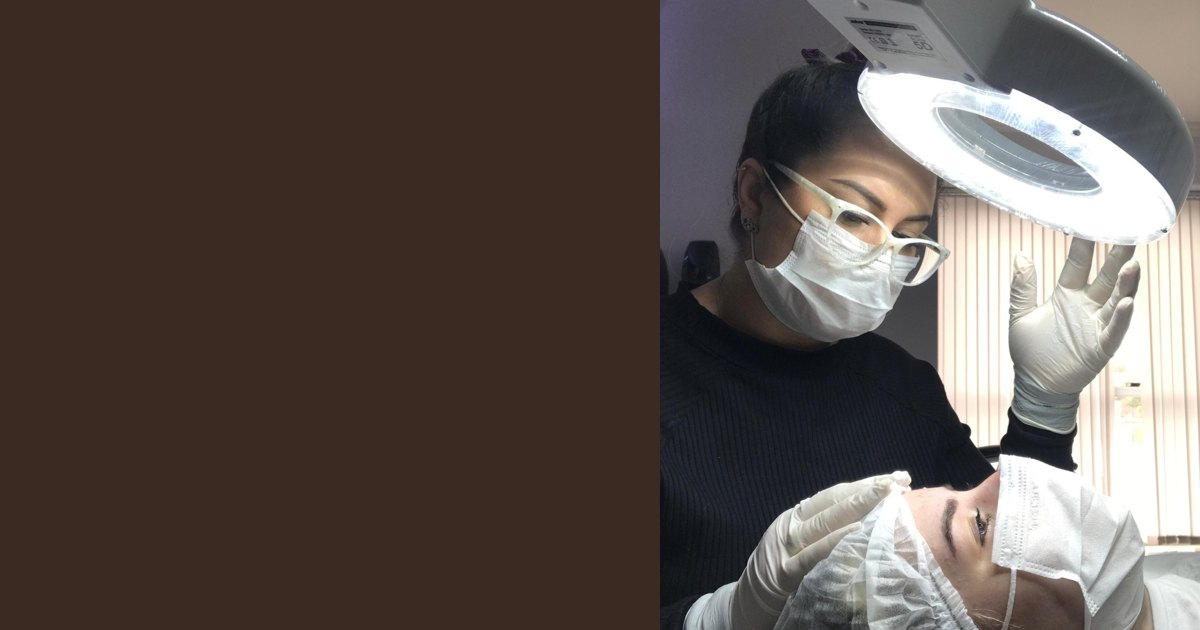
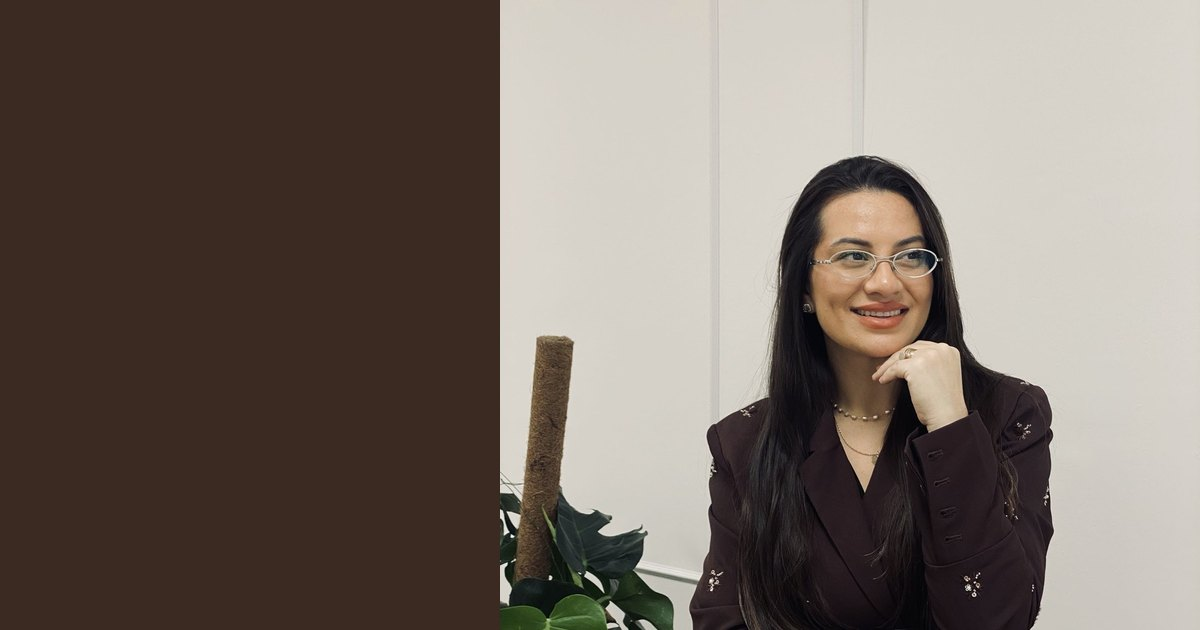
Adres van de kliniek op de site en nieuwe portretten van Angel
Claude-Session: https://claude.ai/code/session_01Sx2hgKZ8ZHtpHQ652AXGcF

diff --git a/scripts/build.js b/scripts/build.js
@@ -14,6 +14,8 @@ const SITE = {
   instagram: 'https://www.instagram.com/anggel_brandao',
   facebook: 'https://www.facebook.com/106613280774555',
   kvk: '42151244',
+  address: { clinic: 'Beauty Clinic Almere', street: 'Zadelmakerstraat 49', zip: '1315 AN', city: 'Almere' },
+  maps: 'https://www.google.com/maps/search/?api=1&query=Zadelmakerstraat+49+1315AN+Almere',
 };
 const wa = (text) => `${SITE.whatsapp}?text=${encodeURIComponent(text)}`;
 const esc = (s) => String(s).replace(/&/g, '&amp;').replace(/</g, '&lt;').replace(/>/g, '&gt;').replace(/"/g, '&quot;');
@@ -32,7 +34,7 @@ const NL = {
   ctaText: 'Hoi Angel! Ik wil graag een gratis consult inplannen voor permanente make-up.',
   ctaTreat: (n) => `Hoi Angel! Ik heb interesse in ${n}. Kan ik een gratis consult inplannen?`,
   band: { h: 'Benieuwd welke techniek bij jou past?', p: 'Plan een gratis consult. Ik kijk naar je huid en je wensen en adviseer eerlijk. Je beslist daarna pas.', btn: 'Boek je gratis consult via WhatsApp', small: `Reactie meestal binnen een paar uur · ${SITE.phoneDisplay}` },
-  footer: { tag: 'Beauty with purpose', about: 'Permanente make-up specialist in Almere Centrum. Natuurlijke wenkbrauwen en lippen, met meer dan 7 jaar ervaring.', studio: 'Studio', studioText: 'Almere Centrum, op loopafstand van het station. Het exacte adres ontvang je bij het bevestigen van je afspraak.', hours: 'Op afspraak, ook in het weekend.', contact: 'Contact', treatments: 'Behandelingen', bottom: `© ${new Date().getFullYear()} ${SITE.name} · KvK ${SITE.kvk}` },
+  footer: { tag: 'Beauty with purpose', about: 'Permanente make-up specialist in Almere Centrum. Natuurlijke wenkbrauwen en lippen, met meer dan 7 jaar ervaring.', studio: 'Studio', studioText: 'Beauty Clinic Almere<br>Zadelmakerstraat 49<br>1315 AN Almere (Centrum)<br><a href="https://www.google.com/maps/search/?api=1&query=Zadelmakerstraat+49+1315AN+Almere" target="_blank" rel="noopener">Route via Google Maps</a>', hours: 'Op afspraak, ook in het weekend.', contact: 'Contact', treatments: 'Behandelingen', bottom: `© ${new Date().getFullYear()} ${SITE.name} · KvK ${SITE.kvk}` },
   faqTitle: 'Veelgestelde vragen',
   wa: 'WhatsApp', ig: 'Instagram @anggel_brandao', onRequest: 'Prijs op aanvraag', more: (n) => `Meer over ${n} →`, view: 'Bekijk →', promoPrice: 'actieprijs',
   treatments: {
@@ -67,13 +69,13 @@ const NL = {
     ['Hoe lang blijft permanente make-up zitten?', 'Wenkbrauwen gemiddeld 1,5 tot 3 jaar, afhankelijk van de techniek, je huidtype en zonblootstelling. Lip blush 2 tot 3 jaar. Het pigment vervaagt geleidelijk en kan daarna opgefrist worden.'],
     ['Doet permanente make-up pijn?', 'Ik werk met een verdovende crème. De meeste klanten omschrijven het als licht krassend of prikkend, goed te doen.'],
     ['Is het consult echt gratis?', 'Ja. In het consult bespreken we je wensen, bekijk ik je huid en wenkbrauwen en adviseer ik de beste techniek en kleur. Je beslist daarna pas of je de behandeling wilt.'],
-    ['Waar zit de studio?', 'In Almere Centrum, op loopafstand van station Almere Centrum. Ik werk op afspraak; het exacte adres ontvang je bij de bevestiging van je afspraak.'],
+    ['Waar zit de studio?', 'In Beauty Clinic Almere, Zadelmakerstraat 49, 1315 AN Almere, in het centrum op loopafstand van station Almere Centrum. Ik werk op afspraak.'],
     ['Werk je hygiënisch en gecertificeerd?', 'Ja. Ik werk uitsluitend met steriele wegwerpnaalden en -materialen, draag handschoenen en volg de hygiënerichtlijnen voor tatoeëren en PMU. Ik ben gecertificeerd in micropigmentatie en heb meer dan 7 jaar ervaring.'],
   ],
   home: {
     title: 'Permanente make-up (PMU) Almere | Nano Brows, Powder Brows & Lip Blush | Angel Brandão', description: 'PMU specialist in Almere Centrum: nanoblading (nano brows), powder brows, combi brows en lip blush met een natuurlijk resultaat. 7+ jaar ervaring, gratis consult, actie €350.',
     eyebrow: 'Permanente make-up (PMU) · Almere Centrum', h1: 'Natuurlijke wenkbrauwen en lippen, elke dag perfect', lead: 'Permanente make-up in Almere: nanoblading (nano brows), powder brows, combi brows en lip blush door Angel Brandão. Meer dan 7 jaar ervaring, een zachte hand en een resultaat dat eruitziet alsof het van jou is.',
-    cta1: 'Boek je gratis consult', cta2: 'Bekijk behandelingen', trust: ['7+ jaar ervaring', 'Gratis consult', 'Steriel & gecertificeerd', 'Bijwerking inbegrepen'], heroAlt: 'Angel Brandão aan het werk tijdens een permanente make-up behandeling in Almere',
+    cta1: 'Boek je gratis consult', cta2: 'Bekijk behandelingen', trust: ['7+ jaar ervaring', 'Gratis consult', 'Steriel & gecertificeerd', 'Bijwerking inbegrepen'], heroAlt: 'Angel Brandão, permanente make-up specialist in Almere',
     promoEyebrow: 'Tijdelijke actie', promoH: 'Wenkbrauwen <s>€599</s> <strong>€350</strong> · Lip blush <s>€499</s> <strong>€249</strong> · Samen <strong>€500</strong>', promoP: 'Geldt voor nano, powder en combi brows. Inclusief ontwerp, kleuradvies en bijwerking na 6 tot 8 weken. Beperkt aantal plekken.', promoBtn: 'Alle prijzen',
     svcEyebrow: 'Behandelingen', svcH: 'Kies de techniek die bij jou past', svcSub: 'Twijfel je? In het gratis consult kijk ik naar je huidtype en je eigen wenkbrauwhaar en adviseer ik eerlijk wat het mooiste en langst houdt.',
     whyEyebrow: 'Waarom Angel Brandão', whyH: 'Natuurlijk is het enige resultaat dat ik maak', whyAlt: 'Close-up van natuurlijk ogende permanente make-up wenkbrauwen',
@@ -81,7 +83,7 @@ const NL = {
     galEyebrow: 'Voor & na', galH: 'Echte klanten, echte resultaten', gal: [['before-after-3.jpg', 'Nano brows, direct na de behandeling'], ['work-4.jpg', 'Nano brows, na 4 weken']], galMore: 'Meer resultaten',
     stepsEyebrow: 'Zo werkt het', stepsH: 'Van consult tot perfecte wenkbrauwen',
     steps: [['Gratis consult', 'Via WhatsApp of in de studio. We bespreken je wensen, je huid en de beste techniek.'], ['Ontwerp & kleur', 'Ik meet en teken de vorm en kies samen met jou de pigmentkleur die bij je past.'], ['Behandeling', 'Met verdovende crème, in ca. 1,5 tot 2 uur. Je krijgt duidelijke nazorginstructies mee.'], ['Bijwerking', 'Na 6 tot 8 weken werken we het resultaat bij. Inbegrepen in de prijs.']],
-    aboutEyebrow: 'Over Angel', aboutH: 'Hoi, ik ben Angel', aboutP1: 'Braziliaanse make-up artist en permanente make-up specialist, sinds 2026 gevestigd in Almere. Ik werk al meer dan 7 jaar met wenkbrauwen en lippen en geloof in één ding: make-up moet jou mooier maken, niet anders. Daarom werk ik zacht, natuurlijk en altijd in overleg.', aboutP2: 'Ik spreek Nederlands, Engels en Portugees.', aboutBtn: 'Lees mijn verhaal', aboutAlt: 'Angel Brandão tijdens een behandeling met ringlamp',
+    aboutEyebrow: 'Over Angel', aboutH: 'Hoi, ik ben Angel', aboutP1: 'Braziliaanse make-up artist en permanente make-up specialist, sinds 2026 gevestigd in Almere. Ik werk al meer dan 7 jaar met wenkbrauwen en lippen en geloof in één ding: make-up moet jou mooier maken, niet anders. Daarom werk ik zacht, natuurlijk en altijd in overleg.', aboutP2: 'Ik spreek Nederlands, Engels en Portugees.', aboutBtn: 'Lees mijn verhaal', aboutAlt: 'Angel Brandão in de studio in Almere',
   },
   treatPage: { forWho: (n) => `Voor wie is ${n}?`, good: 'Goed om te weten', howH: 'Hoe verloopt de behandeling?', faqH: (n) => `Vragen over ${n}`, others: 'Andere behandelingen', band: (n) => `Klaar voor ${n}?`, ctaBtn: (n) => `Gratis consult voor ${n}`, alt: (n) => `${n} resultaat`,
     steps: [['Consult', 'Gratis. Wensen, huidtype, gezondheid en verwachtingen. Eerlijk advies over de techniek.'], ['Ontwerp', 'Ik meet je gezicht en teken de vorm voor. Jij kijkt mee en we passen aan tot het klopt.'], ['Pigmenteren', 'Met verdovende crème en steriele wegwerpmaterialen. Rustig, laag voor laag.'], ['Nazorg & bijwerking', 'Duidelijke <a href="/nazorg/">nazorginstructies</a> en een bijwerking na 6 tot 8 weken, inbegrepen.']] },
@@ -97,7 +99,7 @@ const NL = {
   about: { title: 'Over Angel Brandão | Permanente make-up specialist Almere', description: 'Maak kennis met Angel Brandão, permanente make-up specialist in Almere met meer dan 7 jaar ervaring in micropigmentatie en make-up. Natuurlijk, zacht en eerlijk.', eyebrow: 'Over Angel', h1: 'Beauty with purpose', lead: 'Ik ben Angel Brandão, make-up artist en permanente make-up specialist. Geboren in Brazilië, sinds 2026 thuis in Almere.',
     p1: 'Mijn carrière begon met bruids- en avondmake-up. Honderden gezichten, honderden verschillende wensen. Daar leerde ik het belangrijkste wat ik nu dagelijks gebruik: elk gezicht heeft zijn eigen lijnen, en make-up werkt alleen als het die lijnen respecteert.', p2: 'Meer dan 7 jaar geleden specialiseerde ik me in micropigmentatie. Wenkbrauwen en lippen die er elke ochtend al goed uitzien, zonder dat iemand ziet dat het permanente make-up is. Dat is mijn enige doel bij elke behandeling.',
     howH: 'Hoe ik werk', how: ['<strong>Rustig en in overleg.</strong> Ik teken eerst, jij kijkt mee, en ik begin pas als jij blij bent met de vorm.', '<strong>Natuurlijk boven alles.</strong> Zachte kleuren, fijne haartjes, nooit te donker. Bijwerken kan altijd, weghalen niet.', '<strong>Hygiëne zonder compromis.</strong> Steriele wegwerpnaalden, handschoenen, schone werkplek, volgens de richtlijnen voor PMU.', '<strong>Eerlijk advies.</strong> Past een techniek niet bij jouw huid of wens, dan zeg ik dat, ook als dat betekent dat je niets laat doen.'],
-    practH: 'Praktisch', pract: 'Ik werk in een professionele studio in Almere Centrum, op afspraak en ook in het weekend. Ik spreek Nederlands, Engels en Portugees.', kvk: `Ingeschreven bij de KvK onder nummer ${SITE.kvk}.`, band: 'Zullen we kennismaken?', alt: 'Angel Brandão aan het werk' },
+    practH: 'Praktisch', pract: 'Ik werk in Beauty Clinic Almere, Zadelmakerstraat 49 in Almere Centrum, op afspraak en ook in het weekend. Ik spreek Nederlands, Engels en Portugees.', kvk: `Ingeschreven bij de KvK onder nummer ${SITE.kvk}.`, band: 'Zullen we kennismaken?', alt: 'Angel Brandão bij Beauty Clinic Almere' },
   aftercare: { title: 'Nazorg permanente make-up wenkbrauwen & lippen | Angel Brandão Almere', description: 'Nazorginstructies na permanente make-up: dag voor dag wat je wel en niet doet na nano brows, powder brows, combi brows en lip blush. Van Angel Brandão, Almere.', eyebrow: 'Nazorg', h1: 'Nazorg permanente make-up', lead: 'Goede nazorg bepaalt de helft van je resultaat. Dit zijn mijn instructies voor wenkbrauwen en lippen. Je krijgt ze na de behandeling ook op papier mee.',
     sections: [
       ['Dag 0: de behandeldag', ['Houd het gebied de eerste 2 uur schoon en droog.', 'Maak daarna zacht schoon met steriel zout (NaCl 0,9%) of afgekoeld gekookt water op een schoon wattenschijfje. Deppen, niet wrijven.', 'Breng een dun laagje witte vaseline aan met een schoon wattenstaafje.', 'Slaap zo mogelijk op je rug, op een schoon kussensloop.']],
@@ -110,7 +112,7 @@ const NL = {
     ],
     touchH: 'Bijwerking na 6 tot 8 weken', touchP: 'De bijwerking is nodig voor een gelijkmatig, lang houdbaar resultaat en zit bij de prijs in. Zonder bijwerking blijft het resultaat vaak te licht of ongelijk.', doubtH: 'Twijfel je ergens over?', doubtP: 'Stuur me gerust een foto via <a href="WA">WhatsApp</a>. Bij hevige pijn, pus of koorts neem je contact op met je huisarts.' },
   contact: { title: 'Contact & afspraak | Angel Brandão Beauty Almere', description: 'Plan een gratis consult voor permanente make-up in Almere Centrum via WhatsApp. Op afspraak, ook in het weekend. Reactie meestal binnen een paar uur.', eyebrow: 'Contact', h1: 'Plan je gratis consult', lead: 'De snelste manier is WhatsApp. Stuur een berichtje, eventueel met een foto van je wenkbrauwen of lippen, en ik reageer meestal binnen een paar uur.',
-    studioH: 'Studio', studioP: 'Professionele studio in Almere Centrum, op loopafstand van station Almere Centrum. Het exacte adres ontvang je bij de bevestiging van je afspraak.', hoursH: 'Openingstijden', hoursP: 'Op afspraak, van maandag tot en met zondag. Avond- en weekendafspraken zijn mogelijk.', reachH: 'Bereikbaarheid', reachP: 'Goed bereikbaar met het openbaar vervoer en de auto; parkeren kan in de parkeergarages van het centrum.', langH: 'Talen', langP: 'Nederlands · English · Português', alt: 'Ontwerp van de wenkbrauwen samen met de klant' },
+    studioH: 'Studio', studioP: 'Beauty Clinic Almere<br>Zadelmakerstraat 49<br>1315 AN Almere (Centrum)<br><a href="https://www.google.com/maps/search/?api=1&query=Zadelmakerstraat+49+1315AN+Almere" target="_blank" rel="noopener">Route via Google Maps</a>, op loopafstand van station Almere Centrum.', hoursH: 'Openingstijden', hoursP: 'Op afspraak, van maandag tot en met zondag. Avond- en weekendafspraken zijn mogelijk.', reachH: 'Bereikbaarheid', reachP: 'Goed bereikbaar met het openbaar vervoer en de auto; parkeren kan in de parkeergarages van het centrum.', langH: 'Talen', langP: 'Nederlands · English · Português', alt: 'Ontwerp van de wenkbrauwen samen met de klant' },
   privacy: { title: 'Privacyverklaring | Angel Brandão Beauty', description: 'Privacyverklaring van Angel Brandão Beauty, Almere.', eyebrow: 'Privacy', h1: 'Privacyverklaring',
     blocks: [['', `${SITE.name} (KvK ${SITE.kvk}), gevestigd in Almere, is verantwoordelijk voor de verwerking van persoonsgegevens zoals beschreven in deze verklaring.`], ['Welke gegevens', 'Als je contact opneemt via WhatsApp, Instagram of e-mail verwerk ik je naam, telefoonnummer en de inhoud van je bericht. Voor een behandeling vul je een gezondheidsvragenlijst en een toestemmingsformulier in. Foto\'s van het resultaat maak en gebruik ik alleen met jouw schriftelijke toestemming.'], ['Waarvoor', 'Om je vraag te beantwoorden, een afspraak in te plannen, de behandeling veilig uit te voeren en te voldoen aan wettelijke bewaarplichten (onder andere de administratie voor de Belastingdienst).'], ['Bewaartermijn', 'Behandelgegevens bewaar ik maximaal 5 jaar na de laatste behandeling; administratieve gegevens 7 jaar volgens de wettelijke bewaartermijn. Berichten verwijder ik zodra ze niet meer nodig zijn.'], ['Delen met derden', 'Ik verkoop je gegevens nooit. Ik deel ze alleen met partijen die nodig zijn voor mijn dienstverlening (zoals mijn boekhouder) of als de wet dat verplicht.'], ['Cookies', 'Deze website gebruikt geen tracking cookies. Lettertypen worden geladen via Google Fonts.'], ['Jouw rechten', 'Je kunt je gegevens inzien, laten corrigeren of laten verwijderen. Stuur daarvoor een bericht via <a href="WA">WhatsApp</a>. Je hebt ook het recht een klacht in te dienen bij de Autoriteit Persoonsgegevens.']] },
   notFound: { title: 'Pagina niet gevonden | Angel Brandão Beauty', h1: 'Pagina niet gevonden', p: 'Deze pagina bestaat niet (meer). <a href="/">Terug naar de homepage</a> of <a href="/behandelingen/">bekijk de behandelingen</a>.' },
@@ -125,7 +127,7 @@ const EN = {
   ctaText: 'Hi Angel! I would like to book a free consultation for permanent make-up.',
   ctaTreat: (n) => `Hi Angel! I'm interested in ${n}. Can I book a free consultation?`,
   band: { h: 'Wondering which technique suits you?', p: 'Book a free consultation. I look at your skin and your wishes and advise you honestly. You decide afterwards.', btn: 'Book your free consultation on WhatsApp', small: `Usually a reply within a few hours · ${SITE.phoneDisplay}` },
-  footer: { tag: 'Beauty with purpose', about: 'Permanent make-up specialist in Almere city centre. Natural brows and lips, with more than 7 years of experience.', studio: 'Studio', studioText: 'Almere city centre, walking distance from the station. You receive the exact address when your appointment is confirmed.', hours: 'By appointment, weekends included.', contact: 'Contact', treatments: 'Treatments', bottom: `© ${new Date().getFullYear()} ${SITE.name} · Chamber of Commerce (KvK) ${SITE.kvk}` },
+  footer: { tag: 'Beauty with purpose', about: 'Permanent make-up specialist in Almere city centre. Natural brows and lips, with more than 7 years of experience.', studio: 'Studio', studioText: 'Beauty Clinic Almere<br>Zadelmakerstraat 49<br>1315 AN Almere (city centre)<br><a href="https://www.google.com/maps/search/?api=1&query=Zadelmakerstraat+49+1315AN+Almere" target="_blank" rel="noopener">Directions via Google Maps</a>', hours: 'By appointment, weekends included.', contact: 'Contact', treatments: 'Treatments', bottom: `© ${new Date().getFullYear()} ${SITE.name} · Chamber of Commerce (KvK) ${SITE.kvk}` },
   faqTitle: 'Frequently asked questions',
   wa: 'WhatsApp', ig: 'Instagram @anggel_brandao', onRequest: 'Price on request', more: (n) => `More about ${n} →`, view: 'View →', promoPrice: 'promo price',
   treatments: {
@@ -160,13 +162,13 @@ const EN = {
     ['How long does permanent make-up last?', 'Eyebrows on average 1.5 to 3 years, depending on the technique, your skin type and sun exposure. Lip blush 2 to 3 years. The pigment fades gradually and can be refreshed afterwards.'],
     ['Does permanent make-up hurt?', 'I use a numbing cream. Most clients describe it as a light scratching or tingling, very manageable.'],
     ['Is the consultation really free?', 'Yes. In the consultation we discuss your wishes, I look at your skin and brows and advise the best technique and colour. Only then do you decide whether you want the treatment.'],
-    ['Where is the studio?', 'In Almere city centre, walking distance from Almere Centrum station. I work by appointment; you receive the exact address when your appointment is confirmed.'],
+    ['Where is the studio?', 'At Beauty Clinic Almere, Zadelmakerstraat 49, 1315 AN Almere, in the city centre within walking distance of Almere Centrum station. I work by appointment.'],
     ['Do you work hygienically and are you certified?', 'Yes. I only use sterile disposable needles and materials, wear gloves and follow the hygiene guidelines for tattooing and PMU. I am certified in micropigmentation and have more than 7 years of experience.'],
   ],
   home: {
     title: 'Permanent Make-up (PMU) Almere | Nano Brows, Powder Brows & Lip Blush | Angel Brandão', description: 'PMU specialist in Almere city centre: nanoblading (nano brows), powder brows, combi brows and lip blush with a natural result. 7+ years of experience, free consultation, promo €350.',
     eyebrow: 'Permanent make-up (PMU) · Almere city centre', h1: 'Natural brows and lips, perfect every day', lead: 'Permanent make-up in Almere: nanoblading (nano brows), powder brows, combi brows and lip blush by Angel Brandão. More than 7 years of experience, a gentle hand and a result that looks like it is simply yours.',
-    cta1: 'Book your free consultation', cta2: 'See treatments', trust: ['7+ years of experience', 'Free consultation', 'Sterile & certified', 'Touch-up included'], heroAlt: 'Angel Brandão at work during a permanent make-up treatment in Almere',
+    cta1: 'Book your free consultation', cta2: 'See treatments', trust: ['7+ years of experience', 'Free consultation', 'Sterile & certified', 'Touch-up included'], heroAlt: 'Angel Brandão, permanent make-up specialist in Almere',
     promoEyebrow: 'Limited-time offer', promoH: 'Brows <s>€599</s> <strong>€350</strong> · Lip blush <s>€499</s> <strong>€249</strong> · Both <strong>€500</strong>', promoP: 'Valid for nano, powder and combi brows. Includes design, colour advice and the touch-up after 6 to 8 weeks. Limited availability.', promoBtn: 'All prices',
     svcEyebrow: 'Treatments', svcH: 'Choose the technique that suits you', svcSub: 'Not sure? In the free consultation I look at your skin type and your own brow hair and honestly advise what looks best and lasts longest.',
     whyEyebrow: 'Why Angel Brandão', whyH: 'Natural is the only result I make', whyAlt: 'Close-up of natural-looking permanent make-up eyebrows',
@@ -174,7 +176,7 @@ const EN = {
     galEyebrow: 'Before & after', galH: 'Real clients, real results', gal: [['before-after-3.jpg', 'Nano brows, right after the treatment'], ['work-4.jpg', 'Nano brows, after 4 weeks']], galMore: 'More results',
     stepsEyebrow: 'How it works', stepsH: 'From consultation to perfect brows',
     steps: [['Free consultation', 'On WhatsApp or in the studio. We discuss your wishes, your skin and the best technique.'], ['Design & colour', 'I measure and draw the shape and choose the pigment colour together with you.'], ['Treatment', 'With numbing cream, in approx. 1.5 to 2 hours. You receive clear aftercare instructions.'], ['Touch-up', 'After 6 to 8 weeks we perfect the result. Included in the price.']],
-    aboutEyebrow: 'About Angel', aboutH: 'Hi, I am Angel', aboutP1: 'Brazilian make-up artist and permanent make-up specialist, based in Almere since 2026. I have worked with brows and lips for more than 7 years and believe in one thing: make-up should make you more beautiful, not different. That is why I work softly, naturally and always together with you.', aboutP2: 'I speak English, Dutch and Portuguese.', aboutBtn: 'Read my story', aboutAlt: 'Angel Brandão during a treatment with a ring light',
+    aboutEyebrow: 'About Angel', aboutH: 'Hi, I am Angel', aboutP1: 'Brazilian make-up artist and permanent make-up specialist, based in Almere since 2026. I have worked with brows and lips for more than 7 years and believe in one thing: make-up should make you more beautiful, not different. That is why I work softly, naturally and always together with you.', aboutP2: 'I speak English, Dutch and Portuguese.', aboutBtn: 'Read my story', aboutAlt: 'Angel Brandão in the studio in Almere',
   },
   treatPage: { forWho: (n) => `Who is ${n} for?`, good: 'Good to know', howH: 'How does the treatment go?', faqH: (n) => `Questions about ${n}`, others: 'Other treatments', band: (n) => `Ready for ${n}?`, ctaBtn: (n) => `Free consultation for ${n}`, alt: (n) => `${n} result`,
     steps: [['Consultation', 'Free. Wishes, skin type, health and expectations. Honest advice on the technique.'], ['Design', 'I measure your face and draw the shape. You watch and we adjust until it is right.'], ['Pigmenting', 'With numbing cream and sterile disposable materials. Calmly, layer by layer.'], ['Aftercare & touch-up', 'Clear <a href="/en/aftercare/">aftercare instructions</a> and a touch-up after 6 to 8 weeks, included.']] },
@@ -190,7 +192,7 @@ const EN = {
   about: { title: 'About Angel Brandão | Permanent make-up specialist Almere', description: 'Meet Angel Brandão, permanent make-up specialist in Almere with more than 7 years of experience in micropigmentation and make-up. Natural, gentle and honest.', eyebrow: 'About Angel', h1: 'Beauty with purpose', lead: 'I am Angel Brandão, make-up artist and permanent make-up specialist. Born in Brazil, at home in Almere since 2026.',
     p1: 'My career started with bridal and evening make-up. Hundreds of faces, hundreds of different wishes. That is where I learned the most important thing I use every day: every face has its own lines, and make-up only works when it respects those lines.', p2: 'More than 7 years ago I specialised in micropigmentation. Brows and lips that already look good every morning, without anyone noticing it is permanent make-up. That is my only goal in every treatment.',
     howH: 'How I work', how: ['<strong>Calm and together.</strong> I draw first, you watch, and I only start when you are happy with the shape.', '<strong>Natural above all.</strong> Soft colours, fine strokes, never too dark. You can always add, never remove.', '<strong>Hygiene without compromise.</strong> Sterile disposable needles, gloves, a clean workplace, according to the PMU guidelines.', '<strong>Honest advice.</strong> If a technique does not suit your skin or wish, I say so, even if that means you have nothing done.'],
-    practH: 'Practical', pract: 'I work in a professional studio in Almere city centre, by appointment, weekends included. I speak English, Dutch and Portuguese.', kvk: `Registered with the Dutch Chamber of Commerce (KvK) under number ${SITE.kvk}.`, band: 'Shall we meet?', alt: 'Angel Brandão at work' },
+    practH: 'Practical', pract: 'I work at Beauty Clinic Almere, Zadelmakerstraat 49 in Almere city centre, by appointment, weekends included. I speak English, Dutch and Portuguese.', kvk: `Registered with the Dutch Chamber of Commerce (KvK) under number ${SITE.kvk}.`, band: 'Shall we meet?', alt: 'Angel Brandão at Beauty Clinic Almere' },
   aftercare: { title: 'Aftercare permanent make-up brows & lips | Angel Brandão Almere', description: 'Aftercare instructions after permanent make-up: day by day what to do and avoid after nano brows, powder brows, combi brows and lip blush. From Angel Brandão, Almere.', eyebrow: 'Aftercare', h1: 'Permanent make-up aftercare', lead: 'Good aftercare makes half of your result. These are my instructions for brows and lips. You also receive them on paper after the treatment.',
     sections: [
       ['Day 0: treatment day', ['Keep the area clean and dry for the first 2 hours.', 'Then gently clean with sterile saline (NaCl 0.9%) or cooled boiled water on a clean cotton pad. Dab, do not rub.', 'Apply a thin layer of white petroleum jelly with a clean cotton bud.', 'Sleep on your back if possible, on a clean pillowcase.']],
@@ -203,7 +205,7 @@ const EN = {
     ],
     touchH: 'Touch-up after 6 to 8 weeks', touchP: 'The touch-up is needed for an even, long-lasting result and is included in the price. Without it the result often stays too light or uneven.', doubtH: 'Unsure about something?', doubtP: 'Feel free to send me a photo on <a href="WA">WhatsApp</a>. In case of severe pain, pus or fever, contact your GP.' },
   contact: { title: 'Contact & appointment | Angel Brandão Beauty Almere', description: 'Book a free consultation for permanent make-up in Almere city centre on WhatsApp. By appointment, weekends included. Usually a reply within a few hours.', eyebrow: 'Contact', h1: 'Book your free consultation', lead: 'The fastest way is WhatsApp. Send a message, optionally with a photo of your brows or lips, and I usually reply within a few hours.',
-    studioH: 'Studio', studioP: 'Professional studio in Almere city centre, walking distance from Almere Centrum station. You receive the exact address when your appointment is confirmed.', hoursH: 'Opening hours', hoursP: 'By appointment, Monday to Sunday. Evening and weekend appointments are possible.', reachH: 'Getting there', reachP: 'Easy to reach by public transport and car; parking is available in the city centre garages.', langH: 'Languages', langP: 'English · Nederlands · Português', alt: 'Designing the brows together with the client' },
+    studioH: 'Studio', studioP: 'Beauty Clinic Almere<br>Zadelmakerstraat 49<br>1315 AN Almere (city centre)<br><a href="https://www.google.com/maps/search/?api=1&query=Zadelmakerstraat+49+1315AN+Almere" target="_blank" rel="noopener">Directions via Google Maps</a>, walking distance from Almere Centrum station.', hoursH: 'Opening hours', hoursP: 'By appointment, Monday to Sunday. Evening and weekend appointments are possible.', reachH: 'Getting there', reachP: 'Easy to reach by public transport and car; parking is available in the city centre garages.', langH: 'Languages', langP: 'English · Nederlands · Português', alt: 'Designing the brows together with the client' },
   privacy: { title: 'Privacy policy | Angel Brandão Beauty', description: 'Privacy policy of Angel Brandão Beauty, Almere.', eyebrow: 'Privacy', h1: 'Privacy policy',
     blocks: [['', `${SITE.name} (KvK ${SITE.kvk}), based in Almere, is responsible for the processing of personal data as described in this policy.`], ['Which data', 'When you contact me via WhatsApp, Instagram or e-mail I process your name, phone number and the content of your message. For a treatment you fill in a health questionnaire and a consent form. I only take and use photos of the result with your written consent.'], ['Purpose', 'To answer your question, schedule an appointment, carry out the treatment safely and comply with legal retention obligations (including tax administration).'], ['Retention', 'Treatment records are kept for a maximum of 5 years after the last treatment; administrative records for 7 years according to the legal retention period. Messages are deleted as soon as they are no longer needed.'], ['Sharing with third parties', 'I never sell your data. I only share it with parties needed for my services (such as my accountant) or when required by law.'], ['Cookies', 'This website does not use tracking cookies. Fonts are loaded via Google Fonts.'], ['Your rights', 'You can view, correct or delete your data. Send a message via <a href="WA">WhatsApp</a>. You also have the right to file a complaint with the Dutch Data Protection Authority.']] },
   notFound: { title: 'Page not found | Angel Brandão Beauty', h1: 'Page not found', p: 'This page does not exist (anymore). <a href="/en/">Back to the homepage</a> or <a href="/en/treatments/">see the treatments</a>.' },
@@ -217,7 +219,7 @@ const faqBlock = (items, heading) => `<section class="faq" id="faq"><div class="
 const faqSchema = (items) => ({ '@context': 'https://schema.org', '@type': 'FAQPage', mainEntity: items.map(([q, a]) => ({ '@type': 'Question', name: q, acceptedAnswer: { '@type': 'Answer', text: a } })) });
 const businessSchema = (L) => ({
   '@context': 'https://schema.org', '@type': 'BeautySalon', '@id': `${SITE.domain}/#business`, name: SITE.name, url: SITE.domain + L.routes.home, telephone: SITE.phone, image: `${SITE.domain}/assets/img/og.jpg`, priceRange: '€€',
-  description: L.schemaDesc, address: { '@type': 'PostalAddress', addressLocality: 'Almere', addressRegion: 'Flevoland', addressCountry: 'NL' },
+  description: L.schemaDesc, address: { '@type': 'PostalAddress', streetAddress: SITE.address.street, postalCode: SITE.address.zip, addressLocality: 'Almere', addressRegion: 'Flevoland', addressCountry: 'NL' }, hasMap: SITE.maps,
   areaServed: ['Almere', 'Amsterdam', 'Lelystad', 'Hilversum', 'Flevoland'], sameAs: [SITE.instagram, SITE.facebook], openingHours: 'Mo-Su 09:00-20:00',
   makesOffer: SLUGS.filter((s) => PRICE[s]).map((s) => ({ '@type': 'Offer', name: L.treatments[s].name, price: PRICE[s].now, priceCurrency: 'EUR', url: SITE.domain + L.routes.treatment(s) })),
 });
@@ -286,7 +288,7 @@ ${body}
       <p>${L.footer.about}</p>
     </div>
     <div><h3>${L.footer.treatments}</h3><ul>${navTreat}</ul></div>
-    <div><h3>${L.footer.studio}</h3><p>${L.footer.studioText}</p><p>${L.footer.hours}</p></div>
+    <div><h3>${L.footer.studio}</h3><address>${L.footer.studioText}</address><p>${L.footer.hours}</p></div>
     <div><h3>${L.footer.contact}</h3>
       <p><a href="${SITE.whatsapp}" target="_blank" rel="noopener">${L.wa} ${SITE.phoneDisplay}</a></p>
       <p><a href="${SITE.instagram}" target="_blank" rel="noopener">${L.ig}</a></p>
@@ -316,7 +318,7 @@ function homePage(L) {
     <div class="hero-actions"><a class="btn btn-gold" href="${wa(L.ctaText)}" target="_blank" rel="noopener">${H.cta1}</a><a class="btn btn-ghost" href="${L.routes.treatments}">${H.cta2}</a></div>
     <ul class="trust">${H.trust.map((t) => `<li>${t}</li>`).join('')}</ul>
   </div>
-  <figure class="hero-img"><img src="/assets/img/hero.jpg" alt="${esc(H.heroAlt)}" width="1200" height="1400" fetchpriority="high"></figure>
+  <figure class="hero-img"><img src="/assets/img/angel-hero.jpg" alt="${esc(H.heroAlt)}" width="1200" height="1400" fetchpriority="high"></figure>
 </div></section>
 <section class="promo"><div class="wrap promo-inner"><p class="eyebrow light">${H.promoEyebrow}</p><h2>${H.promoH}</h2><p>${H.promoP}</p><a class="btn btn-light" href="${L.routes.prices}">${H.promoBtn}</a></div></section>
 <section class="services" id="behandelingen"><div class="wrap"><p class="eyebrow">${H.svcEyebrow}</p><h2>${H.svcH}</h2><p class="sub">${H.svcSub}</p><div class="grid-3">${svcCards(L, 'h3')}</div></div></section>
@@ -331,7 +333,7 @@ function homePage(L) {
 <section class="steps"><div class="wrap"><p class="eyebrow">${H.stepsEyebrow}</p><h2>${H.stepsH}</h2>${stepsList(H.steps)}</div></section>
 <section class="about-teaser"><div class="wrap about-grid">
   <div><p class="eyebrow">${H.aboutEyebrow}</p><h2>${H.aboutH}</h2><p>${H.aboutP1}</p><p>${H.aboutP2}</p><a class="btn btn-dark" href="${L.routes.about}">${H.aboutBtn}</a></div>
-  <figure><img src="/assets/img/work-6.jpg" alt="${esc(H.aboutAlt)}" width="1202" height="1600" loading="lazy"></figure>
+  <figure><img src="/assets/img/angel-sofa.jpg" alt="${esc(H.aboutAlt)}" width="1200" height="1500" loading="lazy"></figure>
 </div></section>
 ${faqBlock(L.homeFaq, L.faqTitle)}
 ${ctaBand(L)}`;
@@ -393,7 +395,7 @@ function aboutPage(L) {
   const body = `<section class="page-hero"><div class="wrap"><p class="eyebrow">${A.eyebrow}</p><h1>${A.h1}</h1><p class="lead">${A.lead}</p></div></section>
 <section class="two-col"><div class="wrap two-grid">
 <div class="prose"><p>${A.p1}</p><p>${A.p2}</p><h2>${A.howH}</h2><ul class="checks">${A.how.map((x) => `<li>${x}</li>`).join('')}</ul><h2>${A.practH}</h2><p>${A.pract}</p><p>${A.kvk}</p></div>
-<figure class="sticky"><img src="/assets/img/work-6.jpg" alt="${esc(A.alt)}" width="1202" height="1600" loading="lazy"></figure>
+<figure class="sticky"><img src="/assets/img/angel-reception.jpg" alt="${esc(A.alt)}" width="1200" height="1500" loading="lazy"></figure>
 </div></section>
 ${ctaBand(L, A.band)}`;
   return layout(L, { key: 'about', title: A.title, description: A.description, canonical: L.routes.about, body });
@@ -419,7 +421,7 @@ function contactPage(L) {
   const body = `<section class="page-hero"><div class="wrap"><p class="eyebrow">${C.eyebrow}</p><h1>${C.h1}</h1><p class="lead">${C.lead}</p>
 <div class="hero-actions"><a class="btn btn-gold" href="${wa(L.ctaText)}" target="_blank" rel="noopener">WhatsApp ${SITE.phoneDisplay}</a><a class="btn btn-ghost" href="${SITE.instagram}" target="_blank" rel="noopener">Instagram</a></div></div></section>
 <section class="two-col"><div class="wrap two-grid">
-<div class="prose"><h2>${C.studioH}</h2><p>${C.studioP}</p><h2>${C.hoursH}</h2><p>${C.hoursP}</p><h2>${C.reachH}</h2><p>${C.reachP}</p><h2>${C.langH}</h2><p>${C.langP}</p></div>
+<div class="prose"><h2>${C.studioH}</h2><address>${C.studioP}</address><h2>${C.hoursH}</h2><p>${C.hoursP}</p><h2>${C.reachH}</h2><p>${C.reachP}</p><h2>${C.langH}</h2><p>${C.langP}</p></div>
 <figure><img src="/assets/img/work-3.jpg" alt="${esc(C.alt)}" width="1200" height="1600" loading="lazy"></figure>
 </div></section>
 ${faqBlock(L.homeFaq, L.faqTitle)}`;
